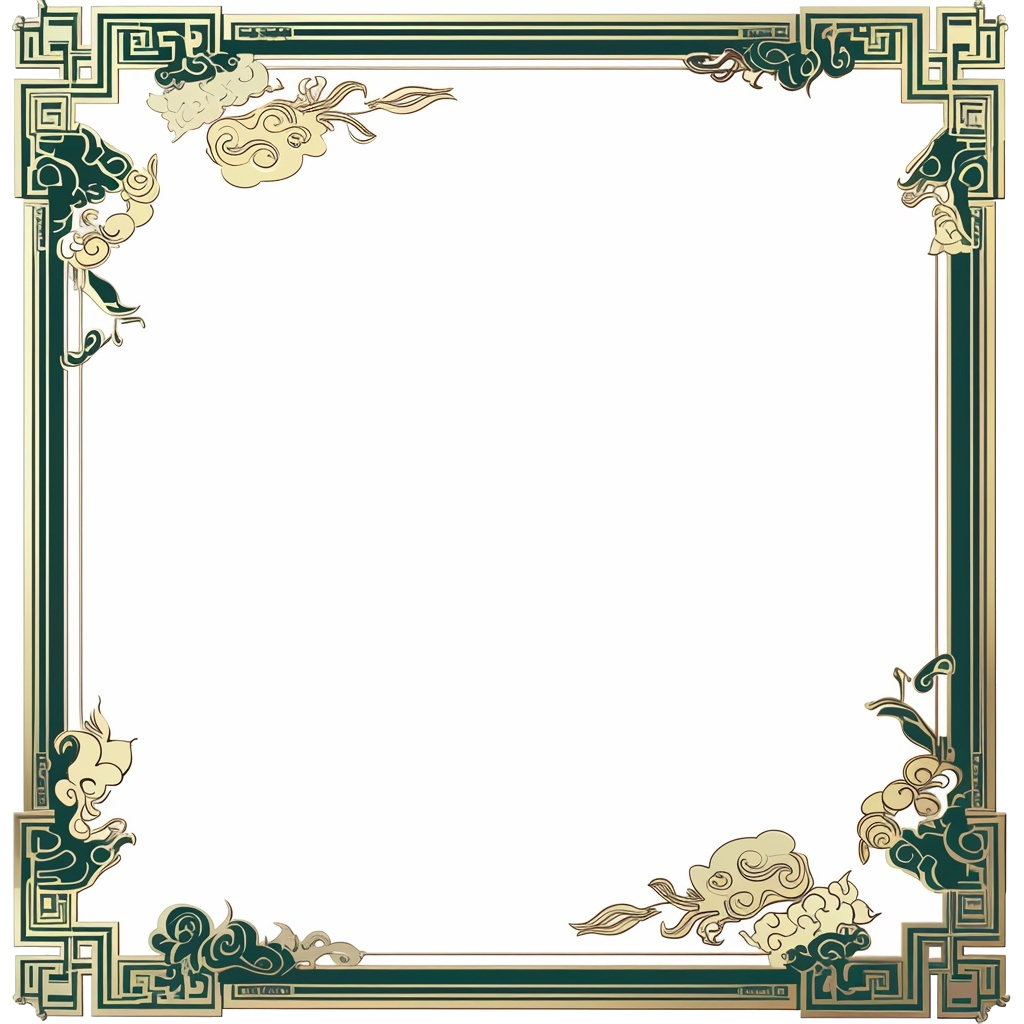
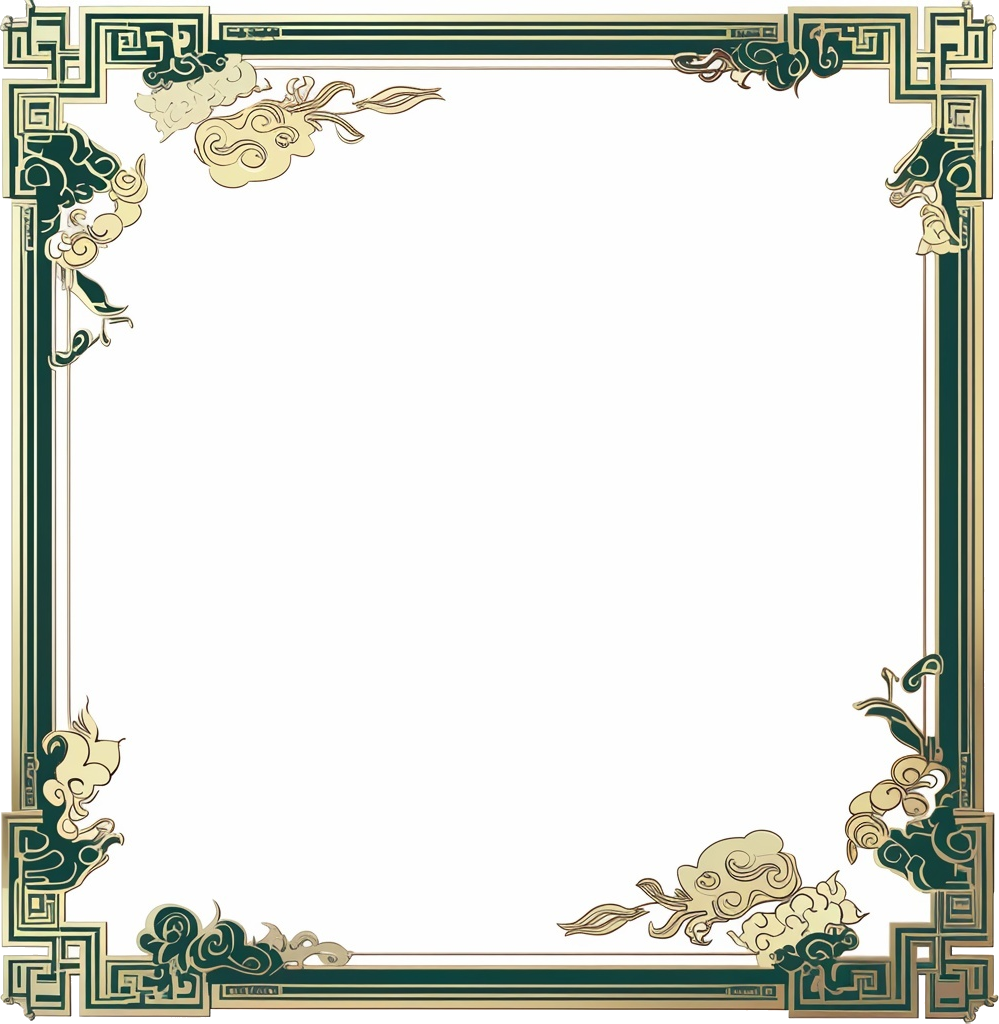
feat(frame): 統一 .ornate-frame 9-slice + 修米色漏邊
# 問題

user 反映:
1. StatsPanel banner 用背景拉伸 → 視窗大小變化會變形
2. frame_card 邊框外側看到米色/白色 → 框沒貼合內容

# 解法

## index.css 加 .ornate-frame component class

統一 9-slice 規格,所有需要框框的元件直接套這個 class:
- border-image-source: url(/assets/ui/frame_card.png)
- border-image-slice: 100   (角落雲紋固定)
- border-width: 28px         (render 比例 100→28 ≈ 3.5x 縮小)
- border-image-repeat: stretch (中間延展)
- background-clip: padding-box ⭐ user 要求的關鍵 fix
  讓 bg-mythic-paper-100 米色只塗在 padding 內、不漏到透明 border 區
  外側看到的是底層(modal backdrop / 父層 bg)而非米色

## process-ui-assets.mjs 加 trim 選項

frame_card.png 二次 pipeline 跑 sharp.trim(),把純透明的外圈裁掉。
新尺寸 999×1024(原 1024 × 1024),框緣更貼近 PNG 邊緣,9-slice 拉伸更精準。

## 套用範圍

- Modal.tsx:替換掉 inline FRAME_BORDER_STYLE,改 className="ornate-frame"
  → 設定 / 買入 / 賣出 / 加碼 / 紀錄 / 寵物資訊 / 登入 全部彈窗統一
- TopBar.tsx StatsPanel:取代 backgroundImage stretch,改 .ornate-frame
  → 不論視窗多寬,4 角雲紋固定不變形

# 驗收

modal 高度從 400 / 800 / 1200 任意拉伸,4 角金綠雲紋零變形,
中間綠色側邊優雅延展;且 4 邊外側不再漏出米色。

Changed region(s): [[0.5586, 0.0, 1.0, 1.0], [0.0, 0.0, 0.4344, 1.0]]

diff --git a/src/index.css b/src/index.css
@@ -2,6 +2,28 @@
 @tailwind components;
 @tailwind utilities;
 
+@layer components {
+  /**
+   * 神話卡框 9-slice 邊框(共用)。
+   *  - frame_card.png 經 white-flood + trim,4 角金綠雲紋裝飾完整
+   *  - slice 100 從 1024 原圖每邊取 100 px 的「框料」,中間延展
+   *  - border-width 28 px:render 比例 100→28 ≈ 3.5x 縮小,角落仍清楚
+   *  - background-clip: padding-box → 不讓元素的米色 bg 漏到透明的 border 區
+   *    (這是 user 反映「框外側出現米色」的根本解法)
+   *  - 高度 400 / 800 / 1200 三種,4 角永遠不變形,只有中間延展
+   */
+  .ornate-frame {
+    border-style: solid;
+    border-color: transparent;
+    border-width: 28px;
+    border-image-source: url('/assets/ui/frame_card.png');
+    border-image-slice: 100;
+    border-image-width: 28px;
+    border-image-repeat: stretch;
+    background-clip: padding-box;
+  }
+}
+
 :root {
   /* 神話美學:預設襯線中文(Noto Serif TC),數字 / UI 小字另用 .font-zh class 切回無襯線 */
   font-family: 'Noto Serif TC', 'Songti TC', 'PMingLiU', 'Noto Sans TC', serif;

diff --git a/src/components/Modal.tsx b/src/components/Modal.tsx
@@ -11,22 +11,11 @@ interface ModalProps {
   hideClose?: boolean;
 }
 
-/** frame_card.png 9-slice 邊框設定。slice 取 180px(對應 1024×1024 原圖內金邊厚度) */
-const FRAME_BORDER_STYLE = {
-  borderStyle: 'solid' as const,
-  borderColor: 'transparent',
-  borderWidth: '32px',
-  borderImageSource: 'url(/assets/ui/frame_card.png)',
-  borderImageSlice: 180,
-  borderImageWidth: '32px',
-  borderImageRepeat: 'stretch' as const
-};
-
 /**
  * 通用 modal 容器(神話卡框版)。
  * - sheet 模式適合手機:從底部滑入,top + 兩側顯示金綠雲紋邊框
  * - center 模式適合彈窗:四邊都有金綠雲紋邊框
- * - frame_card.png 用 CSS border-image 9-slice 把 4 角裝飾固定、4 邊拉伸
+ * - .ornate-frame class 已在 index.css 定義(9-slice + bg-clip padding-box)
  */
 export default function Modal({
   open,
@@ -60,8 +49,7 @@ export default function Modal({
       aria-modal="true"
     >
       <div
-        className={`${containerClass} bg-mythic-paper-100 flex flex-col overflow-hidden`}
-        style={FRAME_BORDER_STYLE}
+        className={`${containerClass} ornate-frame bg-mythic-paper-100 flex flex-col overflow-hidden`}
         onClick={(e) => e.stopPropagation()}
       >
         {(title || !hideClose) && (

diff --git a/src/components/TopBar.tsx b/src/components/TopBar.tsx
@@ -138,17 +138,8 @@ function StatsPanel({ summary }: { summary: PortfolioSummary }) {
   const pnlClass = summary.totalPnL >= 0 ? 'text-tw-up' : 'text-tw-down';
   const rateClass = summary.returnRate >= 0 ? 'text-tw-up' : 'text-tw-down';
   return (
-    // 用 top_banner.png 當底,padding 留出 banner 兩側裝飾,內容浮在中央米紙區
-    <div
-      className="flex items-center gap-2 pl-12 pr-12 py-3"
-      style={{
-        backgroundImage: 'url(/assets/ui/top_banner.png)',
-        backgroundSize: '100% 100%',
-        backgroundRepeat: 'no-repeat',
-        backgroundPosition: 'center',
-        minHeight: '92px'
-      }}
-    >
+    // 用 .ornate-frame 9-slice 邊框包住數據,跟 modals 同一個視覺語言
+    <div className="ornate-frame bg-mythic-paper-100 flex items-center gap-3 mx-2 my-1 px-2 py-1.5">
       {/* 寵物徽章 */}
       <img
         src="/assets/ui/badge_pet.png"